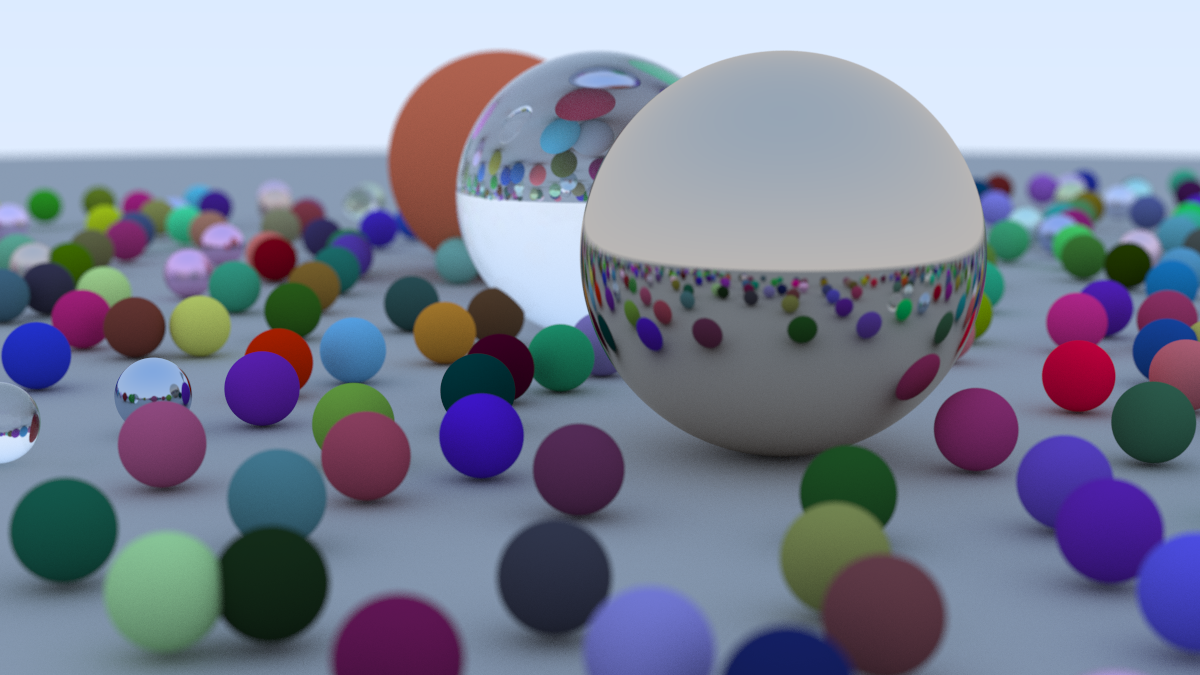
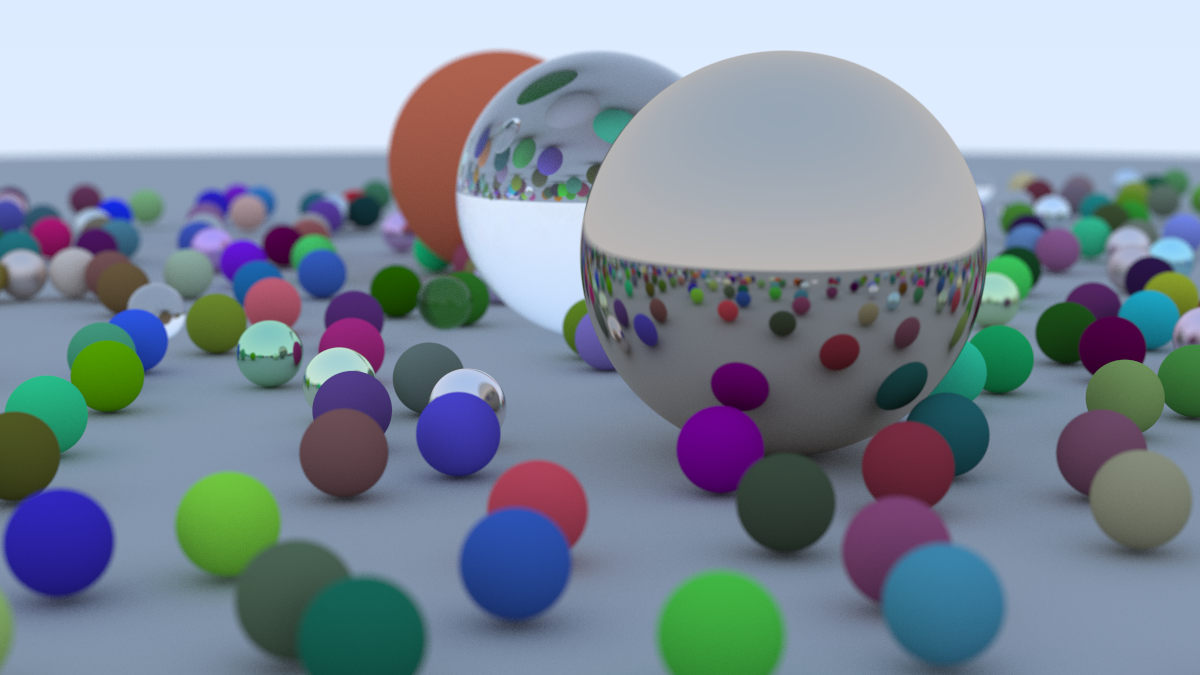
Introduce motion blur (#9)

diff --git a/src/ray/mod.rs b/src/ray/mod.rs
@@ -4,11 +4,16 @@ use nalgebra::Vector3;
 pub struct Ray {
     pub origin: Vector3<f32>,
     pub direction: Vector3<f32>,
+    pub time: f32,
 }
 
 impl Ray {
-    pub fn new(origin: Vector3<f32>, direction: Vector3<f32>) -> Self {
-        Ray { origin, direction }
+    pub fn new(origin: Vector3<f32>, direction: Vector3<f32>, time: f32) -> Self {
+        Ray {
+            origin,
+            direction,
+            time,
+        }
     }
 
     pub fn at(&self, time: f32) -> Vector3<f32> {
@@ -24,7 +29,7 @@ mod tests {
     fn test_ray_new() {
         let origin = Vector3::new(1.0, 2.0, 3.0);
         let direction = Vector3::new(4.0, 5.0, 6.0);
-        let ray = Ray::new(origin, direction);
+        let ray = Ray::new(origin, direction, 0.0);
         assert_eq!(ray.origin, origin);
         assert_eq!(ray.direction, direction);
     }
@@ -33,7 +38,7 @@ mod tests {
     fn test_ray_at() {
         let origin = Vector3::new(1.0, 2.0, 3.0);
         let direction = Vector3::new(4.0, 5.0, 6.0);
-        let ray = Ray::new(origin, direction);
+        let ray = Ray::new(origin, direction, 0.0);
         let time = 2.0;
         let expected_position = Vector3::new(9.0, 12.0, 15.0);
         assert_eq!(ray.at(time), expected_position);
@@ -43,7 +48,7 @@ mod tests {
     fn test_ray_at_zero_time() {
         let origin = Vector3::new(1.0, 2.0, 3.0);
         let direction = Vector3::new(4.0, 5.0, 6.0);
-        let ray = Ray::new(origin, direction);
+        let ray = Ray::new(origin, direction, 0.0);
         let time = 0.0;
         assert_eq!(ray.at(time), origin);
     }
@@ -52,7 +57,7 @@ mod tests {
     fn test_ray_at_negative_time() {
         let origin = Vector3::new(1.0, 2.0, 3.0);
         let direction = Vector3::new(4.0, 5.0, 6.0);
-        let ray = Ray::new(origin, direction);
+        let ray = Ray::new(origin, direction, 0.0);
         let time = -1.0;
         let expected_position = Vector3::new(-3.0, -3.0, -3.0);
         assert_eq!(ray.at(time), expected_position);

diff --git a/src/object/mod.rs b/src/object/mod.rs
@@ -41,7 +41,7 @@ pub trait Hittable: Sync + Send {
 
 #[derive(Debug)]
 pub struct Sphere {
-    pub center: Vector3<f32>,
+    pub center: Ray,
     pub radius: f32,
     pub material: Arc<dyn Material>,
 }
@@ -49,9 +49,26 @@ pub struct Sphere {
 unsafe impl Sync for Sphere {}
 unsafe impl Send for Sphere {}
 
+impl Sphere {
+    pub fn new(
+        center: Vector3<f32>,
+        direction: Vector3<f32>,
+        radius: f32,
+        material: Arc<dyn Material>,
+    ) -> Self {
+        Sphere {
+            center: Ray::new(center, direction, 0.0),
+            radius,
+            material,
+        }
+    }
+}
+
 impl Hittable for Sphere {
     fn hit(&self, r: &Ray, interval: &Interval, record: &mut HitRecord) -> bool {
-        let oc = r.origin - self.center;
+        let current_center = self.center.at(r.time);
+        let oc = r.origin - current_center;
+
         let a = r.direction.norm_squared();
         let half_b = oc.dot(&r.direction);
         let c = oc.norm_squared() - self.radius * self.radius;
@@ -73,7 +90,7 @@ impl Hittable for Sphere {
 
         record.t = root;
         record.point = r.at(root);
-        let outward_normal = (record.point - self.center) / self.radius;
+        let outward_normal = (record.point - current_center) / self.radius;
         record.set_face_normal(r, &outward_normal);
         record.material = Arc::clone(&self.material);
 

diff --git a/src/material/mod.rs b/src/material/mod.rs
@@ -50,7 +50,7 @@ impl Lambertian {
 impl Material for Lambertian {
     fn scatter(
         &self,
-        _: &Ray,
+        r_in: &Ray,
         record: &HitRecord,
         attenuation: &mut Vector3<f32>,
         scattered: &mut Ray,
@@ -61,6 +61,7 @@ impl Material for Lambertian {
         }
 
         scattered.origin = record.point;
+        scattered.time = r_in.time;
         scattered.direction = scatter_direction;
         attenuation.copy_from(&self.albedo);
         true
@@ -91,6 +92,7 @@ impl Material for Metal {
         reflected = reflected.normalize() + (math::random_normal() * self.roughness);
 
         scattered.origin = record.point;
+        scattered.time = r_in.time;
         scattered.direction = reflected;
         attenuation.copy_from(&self.albedo);
         scattered.direction.dot(&record.normal) > 0.0
@@ -129,6 +131,7 @@ impl Material for Dielectric {
         let cannot_refract = r_index * sin_theta > 1.0;
 
         scattered.origin = record.point;
+        scattered.time = r_in.time;
         let mut rng = rand::rng();
         let random = rng.random_range(0.0f32..1.0f32);
 

diff --git a/src/config/mod.rs b/src/config/mod.rs
@@ -121,6 +121,7 @@ impl MaterialDef {
 struct RawSphere {
     #[serde(rename = "position")]
     center: [f32; 3],
+    direction: Option<[f32; 3]>,
     radius: f32,
     #[serde(flatten)]
     material_def: MaterialDef,
@@ -128,11 +129,17 @@ struct RawSphere {
 
 impl RawSphere {
     fn into_sphere(self) -> Sphere {
-        Sphere {
-            center: Vector3::new(self.center[0], self.center[1], self.center[2]),
-            radius: self.radius,
-            material: self.material_def.into_material(),
-        }
+        let center = Vector3::new(self.center[0], self.center[1], self.center[2]);
+        let direction = match self.direction {
+            None => Vector3::new(0.0, 0.0, 0.0),
+            Some(direction) => Vector3::new(direction[0], direction[1], direction[2]),
+        };
+        Sphere::new(
+            center,
+            direction,
+            self.radius,
+            self.material_def.into_material(),
+        )
     }
 }
 

diff --git a/src/camera/mod.rs b/src/camera/mod.rs
@@ -211,7 +211,10 @@ impl Camera {
         };
         let ray_direction = pixel_sample - ray_origin;
 
-        Ray::new(ray_origin, ray_direction)
+        let mut rng = rand::rng();
+        let t = rng.random_range(0.0f32..1.0f32);
+
+        Ray::new(ray_origin, ray_direction, t)
     }
 
     pub fn defocus_disk_sample(&self) -> Vector3<f32> {
